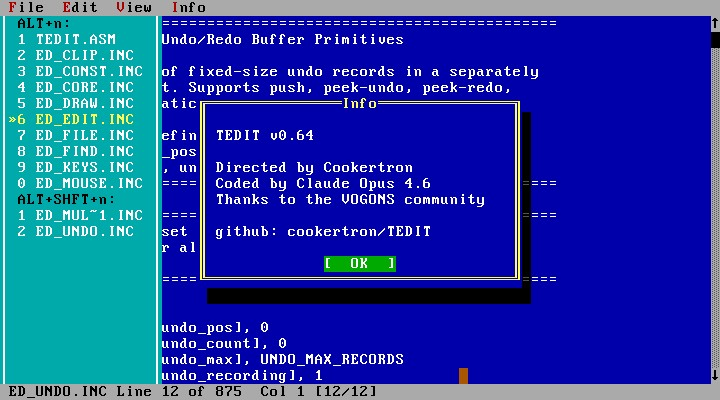
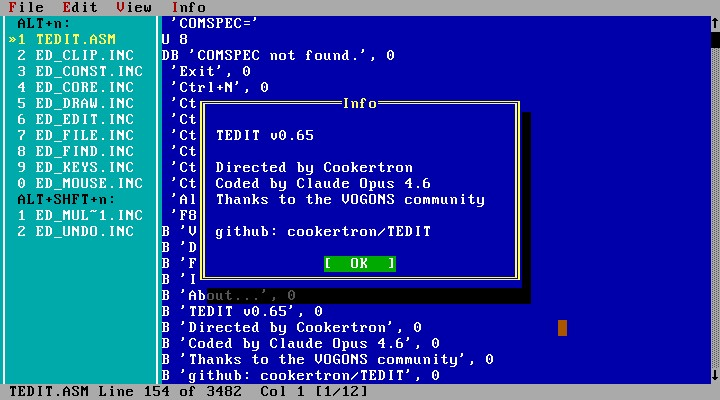
Add files via upload

diff --git a/CHANGELOG.md b/CHANGELOG.md
@@ -1,5 +1,25 @@
 # TEDIT Changelog
 
+## v0.65.0 — Menu Shortcuts & Quit Dialog Fix (2026-04-02)
+
+### Menu Shortcuts
+- **Shell to DOS**: assigned F8 shortcut (scan code 42h via TUI accelerator dispatch)
+- **Exit (renamed from Quit)**: changed shortcut from Alt+Q to Alt+X (scan code 2Dh)
+- Verified all 21 menu shortcuts work correctly via agent86 emulation
+
+### DOSBox-X Ctrl+Alt Key Fix
+- **Ctrl+Alt+W (Close All)** and **Ctrl+Alt+S (Save All)**: added extended key
+  fallback handlers in ed_keys.inc. DOSBox-X sends Ctrl+Alt+letter as an extended
+  key (ASCII=0, scancode=letter) rather than as a control code with Alt in the
+  modifier flags. New handlers check for W (scan 11h) and S (scan 1Fh) with
+  Ctrl modifier bit, jumping to existing `.do_closeall` / `.do_saveall`.
+
+### Quit Dialog Fix
+- **"Other docs have unsaved changes."** replaced with **"Discard unsaved changes?"**
+  — the old message wasn't a question, making the Yes/No buttons meaningless
+- **No button** now aborts quit (previously both Yes and No would quit, making
+  the dialog pointless). Only Yes discards and exits; No/Cancel return to the editor.
+
 ## v0.64.0 — BSS/Stack Overflow Fix, Segment Migration (2026-04-01)
 
 ### Shell-to-DOS JemmEx Crash Fix
